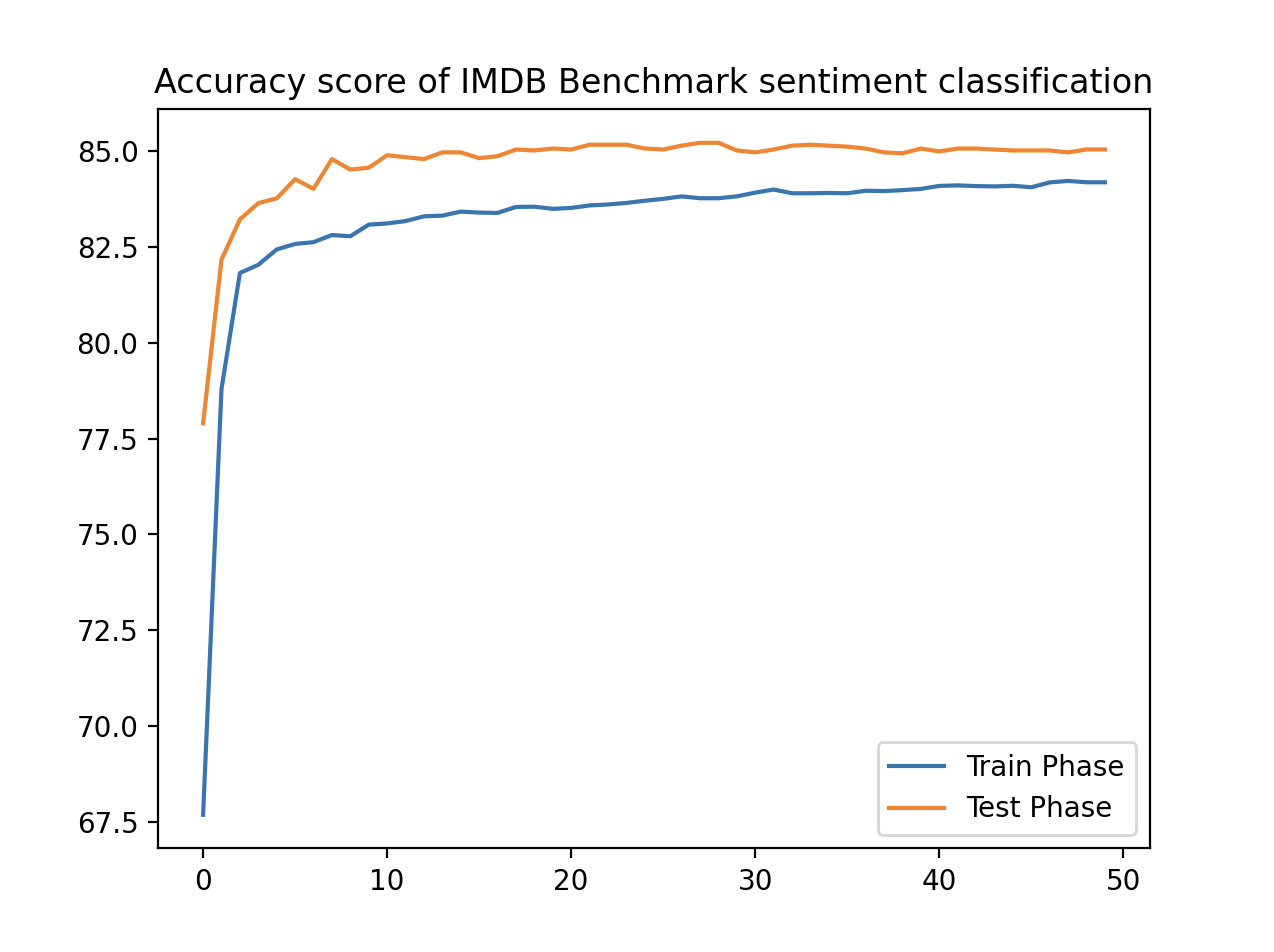
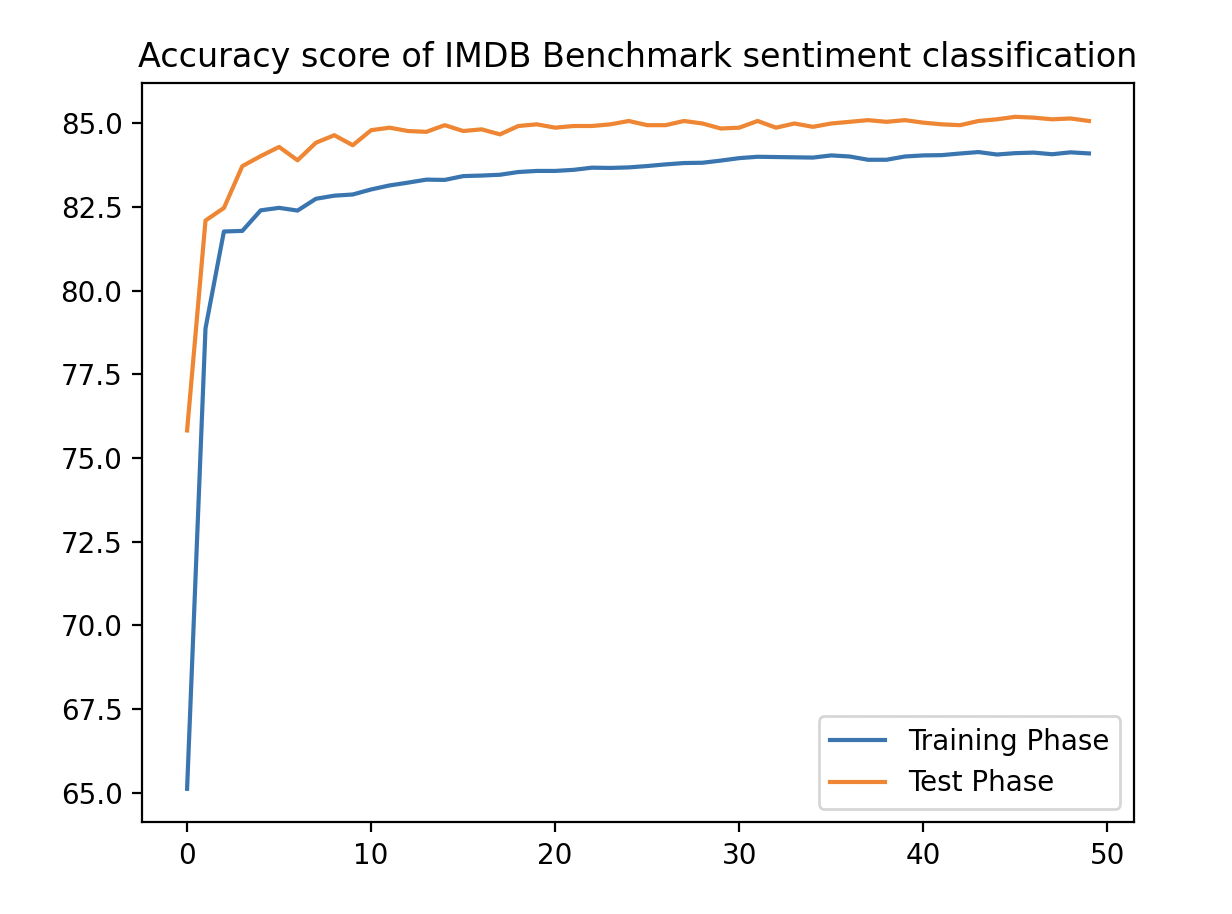
Upload files

Changed region(s): [[0.0308, 0.0306, 0.9253, 0.9497]]

diff --git a/Model/Sentiment_Classifier.py b/Model/Sentiment_Classifier.py
@@ -48,7 +48,7 @@ class Classifier():
         pickle.dump(self.encoder_model , open('./encoder_model.nila' , 'wb'))
         pickle.dump(self.dense_model , open('./dense_model.nila' , 'wb'))
 
-        plt.plot(range(0,len(self.train_acc)), self.train_acc , label = "Train Phase")
+        plt.plot(range(0,len(self.train_acc)), self.train_acc , label = "Training Phase")
         plt.plot(range(0,len(self.train_acc)), self.test_acc , label = "Test Phase")
         plt.title('Accuracy score of IMDB Benchmark sentiment classification')
         plt.legend()

diff --git a/README.md b/README.md
@@ -6,4 +6,6 @@ The final accuracy of the model is over 85%.<br/><br/>
 Note: The learnable parameters of both the models will be saved in the encoder_model.nila and dense_model.nila files automatically. <br/><br/>
 IMDB dataset description : https://huggingface.co/datasets/stanfordnlp/imdb. <br/><br/>
 
+Please look at my personal website at -- to read more about the model.<br/><br/>
+
 ![Results Plot](https://github.com/irbestpro/IMDB_Attention_Encoder/blob/main/plot.png?raw=true)
